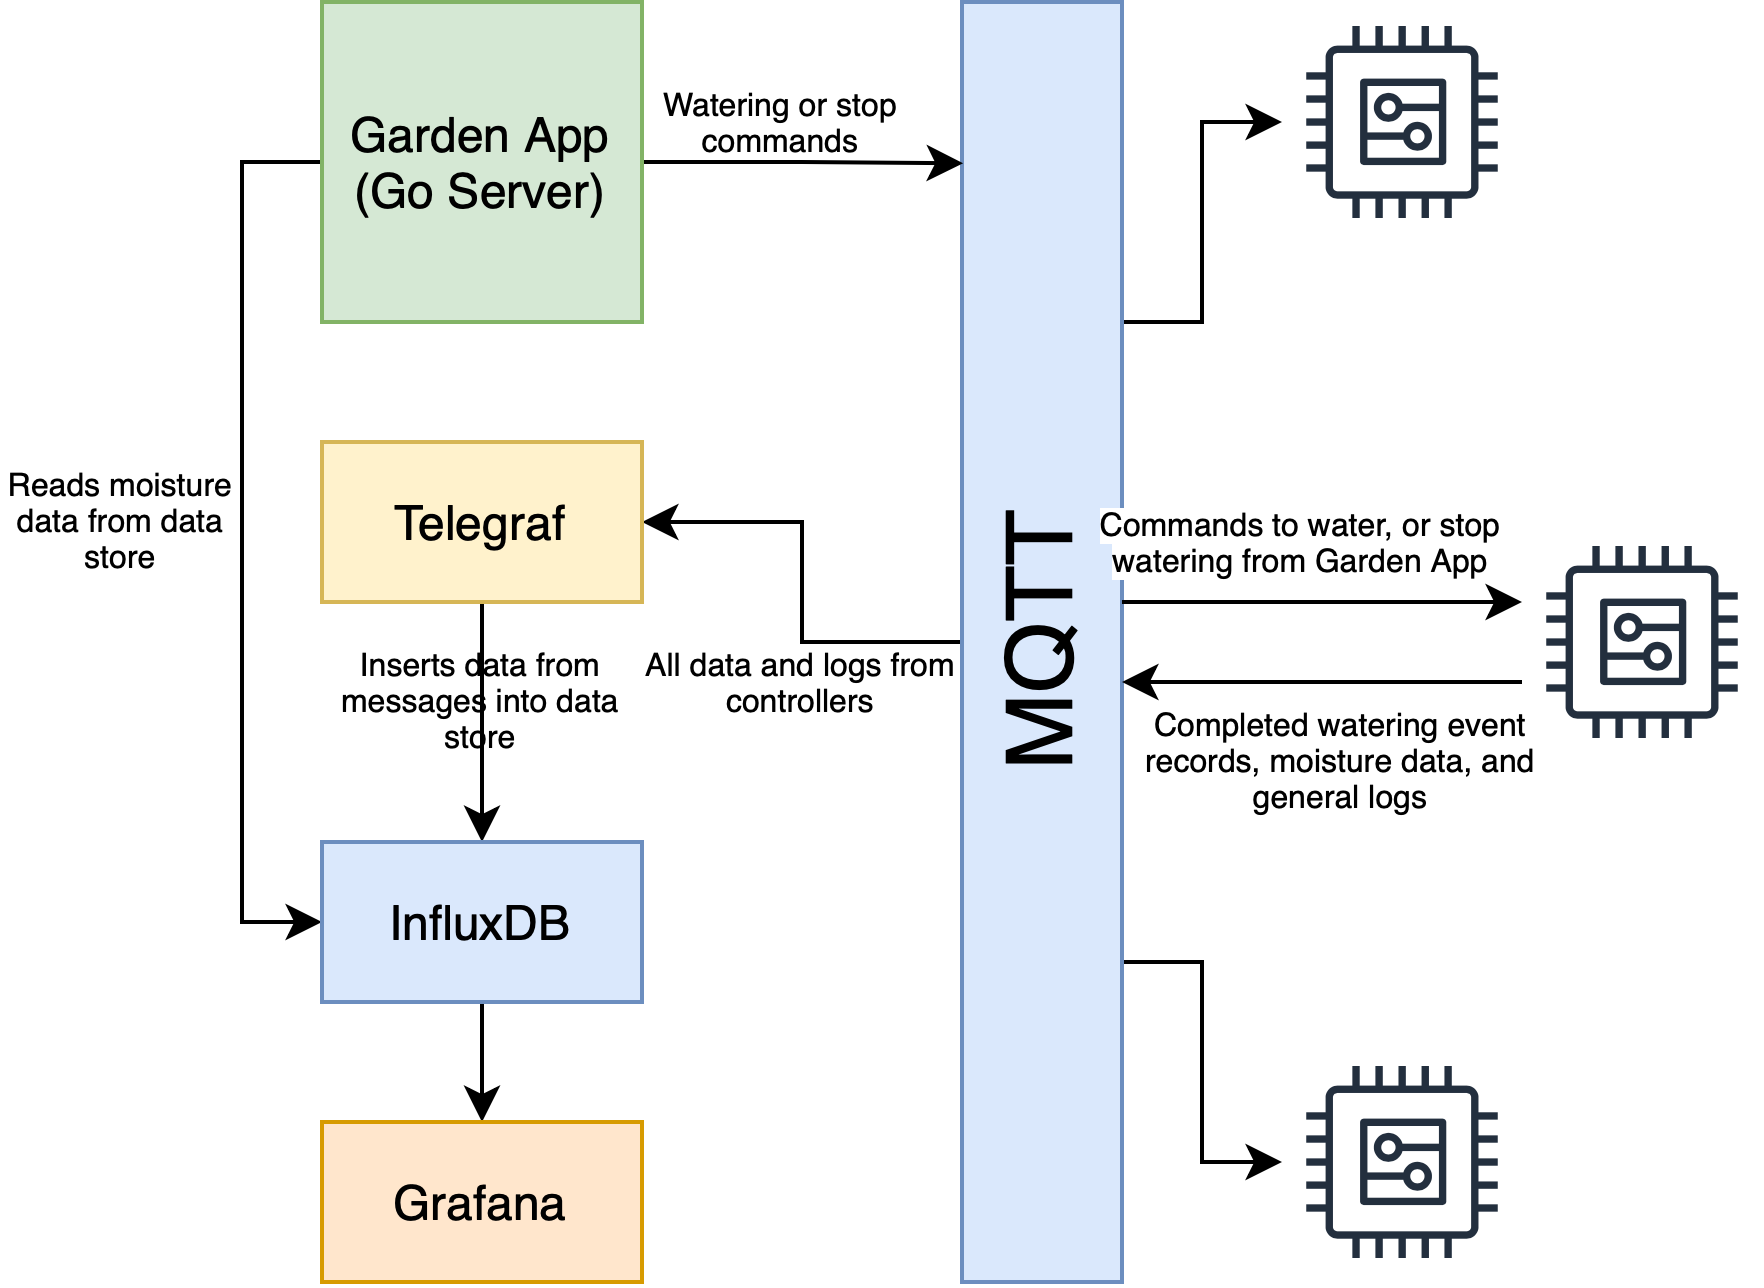
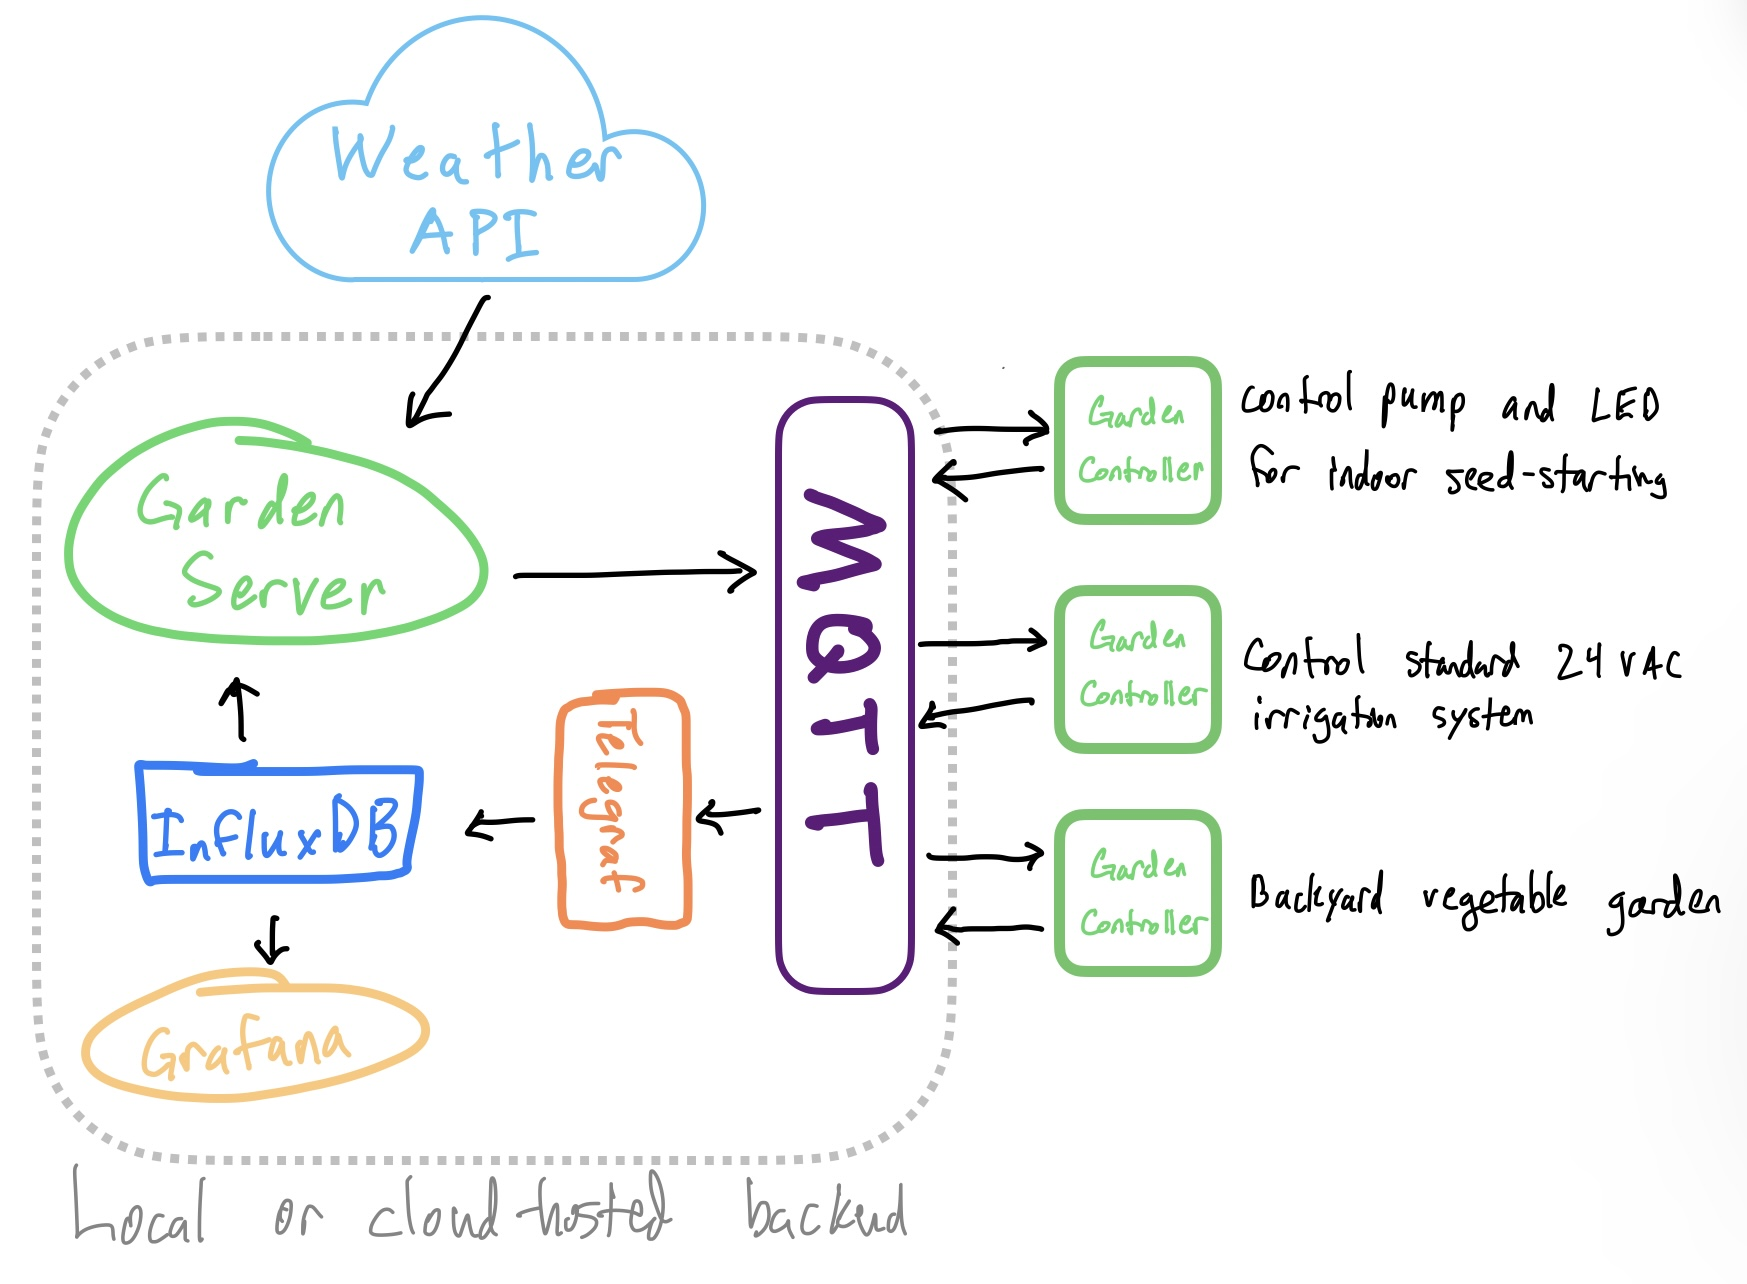
Update README and flow diagram

diff --git a/README.md b/README.md
@@ -6,42 +6,38 @@
 [![License](https://img.shields.io/github/license/calvinmclean/automated-garden)](https://github.com/calvinmclean/automated-garden/blob/main/LICENSE)
 [![Go Reference](https://pkg.go.dev/badge/github.com/calvinmclean/automated-garden/garden-app.svg)](https://pkg.go.dev/github.com/calvinmclean/automated-garden/garden-app)
 
-This project is a monorepo containing code for an ESP32-based microcontroller project and a Go backend for improving interactions with multiple gardens.
+This project is a monorepo containing code for an ESP32-based microcontroller project and a Go backend for improving interactions with multiple irrigation systems.
 
 [See additional documentation here](https://calvinmclean.github.io/automated-garden).
 
-![Garden](docs/_images/garden.jpeg?raw=true)
-
 This system is designed to be flexible for all types of gardening. Here are a few examples of different possible setups:
+  - Traditional irrigation system using 24V AC valves
+  - Backyard vegetable garden
   - Indoor garden with a pump and multiple valves to control watering plants, plus a grow light
   - Indoor seedling germination system with a pump and grow light (fan and heating pad control possibly coming soon)
   - Hydroponics system with one circulation or aeration pump
-  - Outdoor garden with hose spout providing water pressure and multiple valves controlling output to beds
 
-## Components
-This project consists of two main components and supporting services. A centralized Go server is used to control a distributed system of microcontrollers, each representing a Garden with one or more plants.
+## How It Works
 
 ![Garden](docs/_images/FlowDiagram.png?raw=true)
 
-### Garden App
-This Go application is contained in the [`garden-app`](./garden-app) directory and consists of a CLI and web backend for interacting with the garden controller. It implements the following features:
-  - CRUD operations for Gardens and Plants using REST API
-  - Actions to water plants, turn on/off light, and stop watering
-  - Water plants automatically on a cron-based schedule
-  - Monitor health of connected `garden-controllers`
+### Garden Server
+This Go application is contained in the [`garden-app`](./garden-app) directory and consists of a CLI and web backend for interacting with the garden controller. It implements all logic and orchestrates the separate systems.
+
+Key features include:
+  - Intuitive REST API
+  - Actions to water plants and toggle a light
+  - Water plants automatically on a schedule
+  - Aggregate data from connected services and previous actions
 
 ### Garden Controller
-This is contained in the [`garden-controller`](./garden-controller) and is an Arduino/FreeRTOS firmware application intended to be used with an ESP32 microcontroller.
+This Arduino-compatible firmware is contained in the [`garden-controller`](./garden-controller) and is intended to be used with an ESP32. It implements the most basic functionality to control hardware based on messages from the Go application received over MQTT.
 
-The microcontroller is able to send and receive messages using MQTT, a pub/sub message queue for IoT. When watering is completed, the elapsed time is published to MQTT with the intention of being picked up by Telegraf and inserted into InfluxDB. This allows me to monitor when and for how long my plants have been watered using a Grafana dashboard.
-
-Capabilities:
-  - Control pump and valves for one or more plants (only limited by number of output pins)
-  - Queue up water events to water multiple plants one after the other
-  - Publish moisture data to InfluxDB via Telegraf + MQTT
-  - Respond to buttons to water individual plants and cancel watering
-  - Listen on MQTT for watering a plant for specified amount of time, cancel current watering, and clear current watering queue
-  - Publish on MQTT for logging water events in InfluxDB for visualization with Grafana
+Key features include:
+  - Control valves or devices (only limited by number of output pins)
+  - Queue up water events to water multiple zones one after the other
+  - Publish data and logs to InfluxDB via Telegraf + MQTT
+  - Respond to buttons to water individual zones and cancel watering
 
 ## Core Technologies
 - Arduino/FreeRTOS
@@ -50,28 +46,4 @@ Capabilities:
 - InfluxDB
 - Grafana (optional for visualization of InfluxDB data)
 - Telegraf
-
-## Hardware
-In addition to the software, this project consists of hardware for interacting with the real world. Some of this can be 3D printed while the most important parts must be purchased.
-
-3D printed parts:
-  - Case for housing most of the electronics (ESP32, relays, and power connections)
-  - Case and button caps for control buttons
-  - Mount for the 3 water valve solenoids
-  - 1-to-3 splitter for water coming from pump to the valves
-  - Simple clips for organizing the tubing
-  - Watering rings to evenly distribute water in the planters
-  - Mounts for grow light
-
-Purchased parts:
-  - Relays
-  - ESP32
-  - Circuit boards
-  - Tubing (5mm and 8mm)
-  - Submersible water pump
-  - Water tank
-  - 12V DC power supply
-  - Full spectrum grow light
-  - Planters, seeds, soil, etc.
-
-I don't really expect that anyone will try to recreate this project so I haven't provided a whole lot of details on the build, but if you would like any more information or access to STL files please don't hesitate to ask in an issue or email. Thanks! :)
+- Netatmo Weather (optional for weather-based watering)
